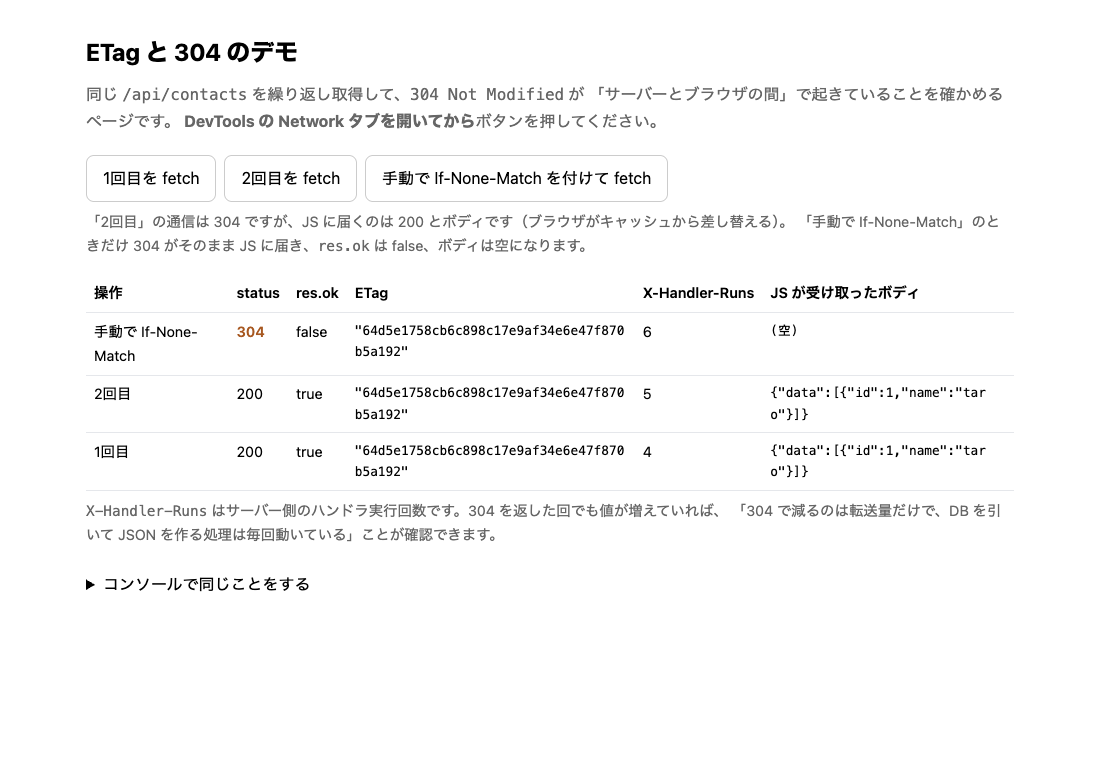
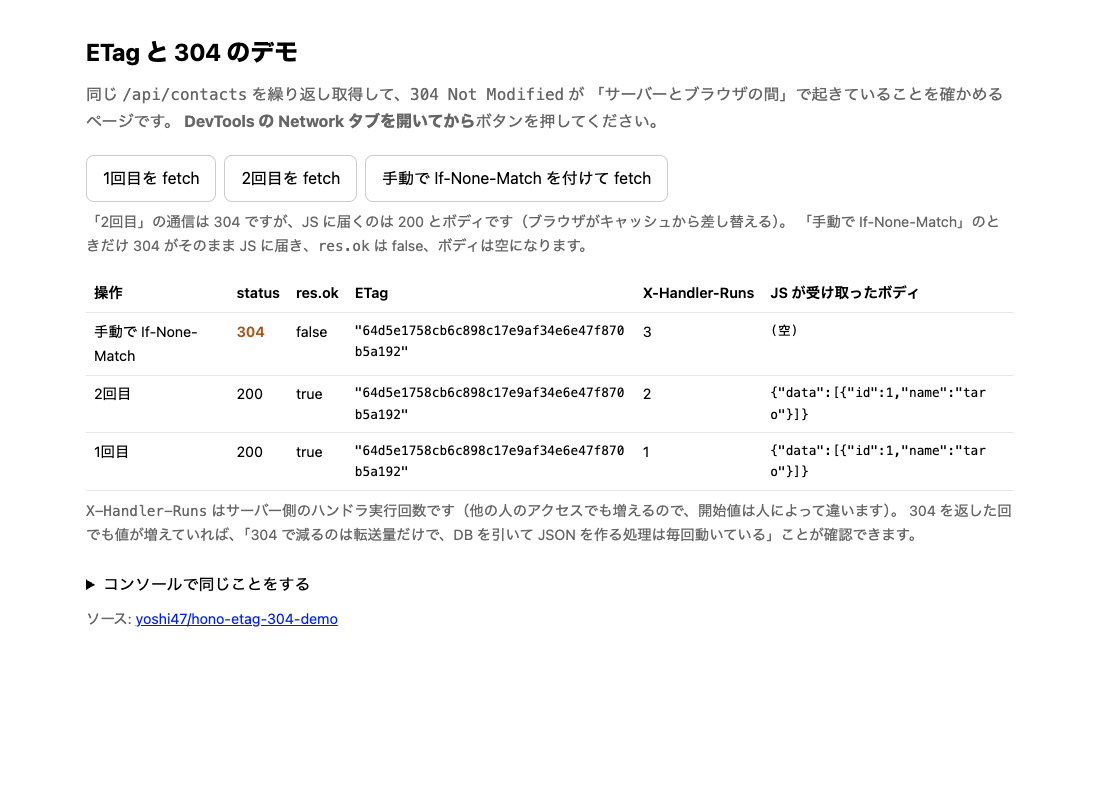
Note that X-Handler-Runs is shared across visitors, and link the repository

diff --git a/src/page.js b/src/page.js
@@ -67,8 +67,8 @@ export const page = `<!doctype html>
   <tbody id="rows"></tbody>
 </table>
 <p class="hint">
-  <code>X-Handler-Runs</code> はサーバー側のハンドラ実行回数です。304 を返した回でも値が増えていれば、
-  「304 で減るのは転送量だけで、DB を引いて JSON を作る処理は毎回動いている」ことが確認できます。
+  <code>X-Handler-Runs</code> はサーバー側のハンドラ実行回数です（他の人のアクセスでも増えるので、開始値は人によって違います）。
+  304 を返した回でも値が増えていれば、「304 で減るのは転送量だけで、DB を引いて JSON を作る処理は毎回動いている」ことが確認できます。
 </p>
 
 <details>
@@ -120,6 +120,8 @@ document.getElementById('manual').addEventListener('click', async function () {
   await run('手動で If-None-Match', { headers: { 'If-None-Match': lastEtag } })
 })
 </script>
+
+<p class="hint">ソース: <a href="https://github.com/yoshi47/hono-etag-304-demo">yoshi47/hono-etag-304-demo</a></p>
 </body>
 </html>
 `
